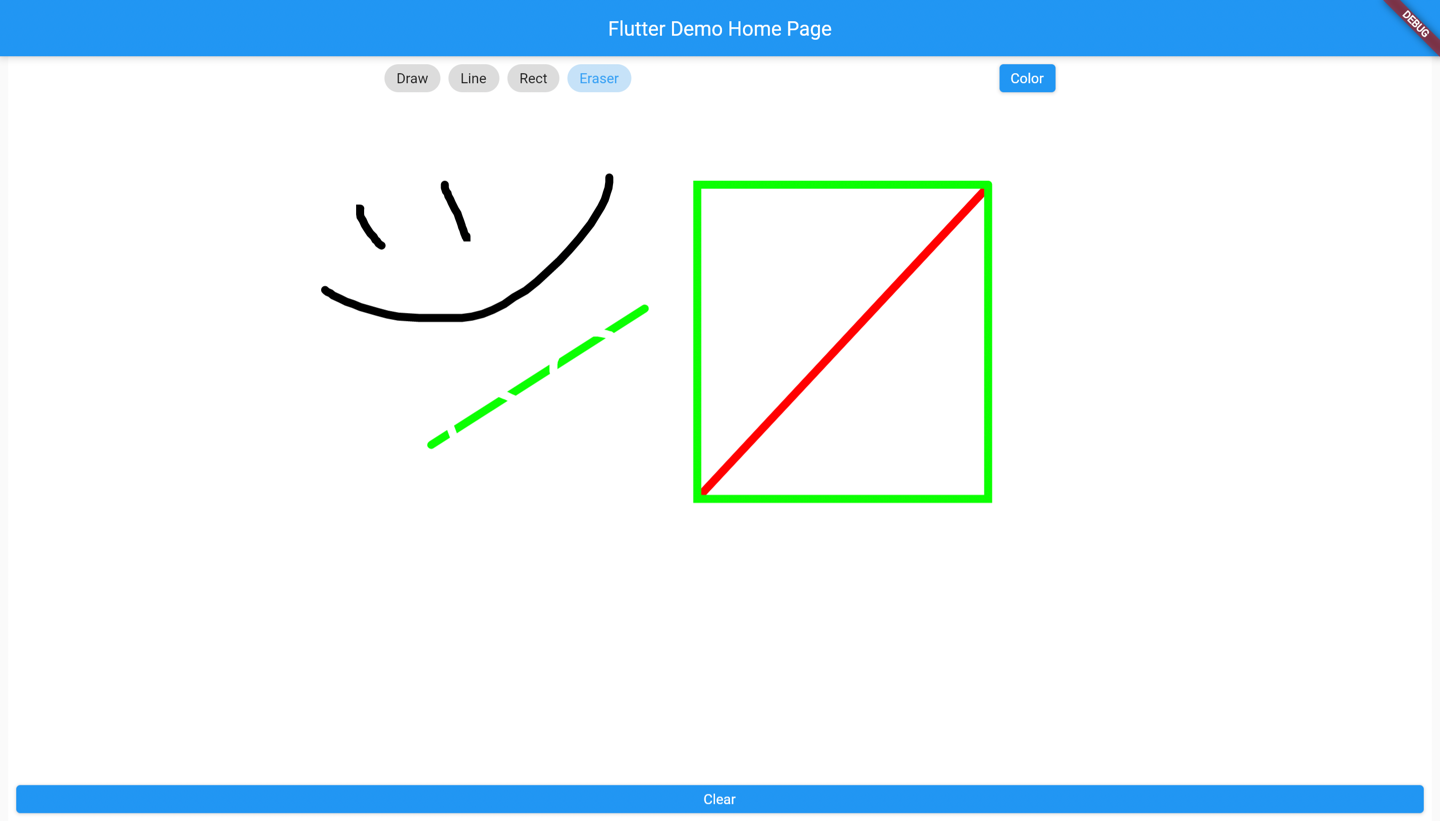
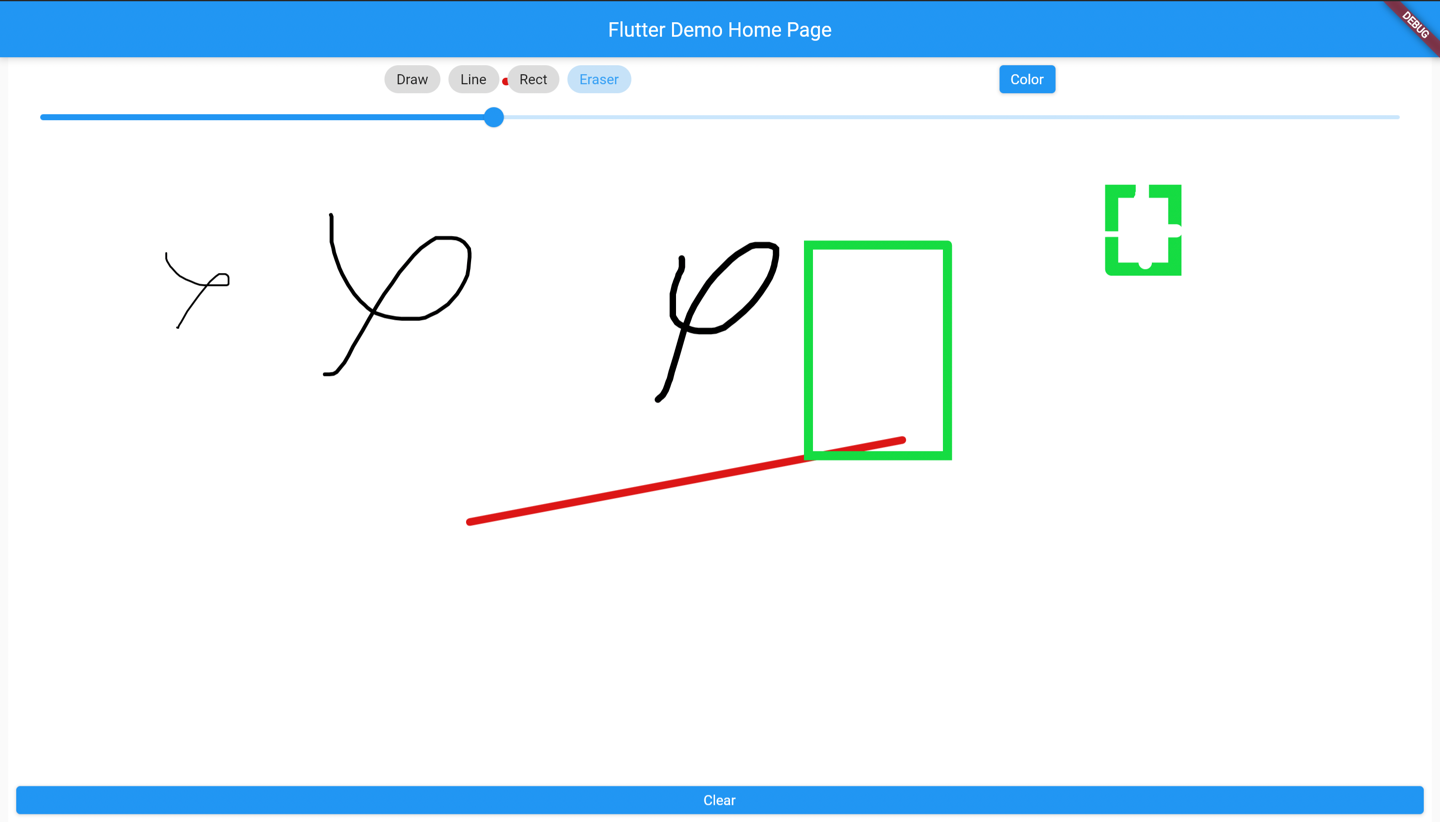
stroke width + readme

diff --git a/lib/HomePage.dart b/lib/HomePage.dart
@@ -32,7 +32,7 @@ class _MyHomePageState extends State<MyHomePage> {
 
   double opacity = 1.0;
   StrokeCap strokeType = StrokeCap.round;
-  double strokeWidth = 8.0;
+  double strokeWidth = 1.0;
 
   void changeColor(Color color) => setState(() => currentColor = color);
 
@@ -165,13 +165,15 @@ class _MyHomePageState extends State<MyHomePage> {
               Column(
                 mainAxisAlignment: MainAxisAlignment.spaceBetween,
                 children: [
-                  Row(
-                    mainAxisAlignment: MainAxisAlignment.spaceEvenly,
+                  Column(
                     children: [
-                      Wrap(
-                        children: List<Widget>.generate(
-                            4,
-                            (index) => ChoiceChip(
+                      Row(
+                        mainAxisAlignment: MainAxisAlignment.spaceEvenly,
+                        children: [
+                          Wrap(
+                            children: List<Widget>.generate(
+                                4,
+                                    (index) => ChoiceChip(
                                   label: Text(modes[index]),
                                   selected: selectedIndex == index,
                                   onSelected: (bool selected) {
@@ -194,39 +196,53 @@ class _MyHomePageState extends State<MyHomePage> {
                                     });
                                   },
                                 )),
-                        spacing: 8,
-                      ),
-                      ElevatedButton(
-                          onPressed: () {
-                            showDialog(
-                                context: context,
-                                builder: (BuildContext context) {
-                                  return AlertDialog(
-                                    titlePadding: const EdgeInsets.all(0.0),
-                                    contentPadding: const EdgeInsets.all(0.0),
-                                    content: SingleChildScrollView(
-                                      child: ColorPicker(
-                                        pickerColor: currentColor,
-                                        onColorChanged: changeColor,
-                                        colorPickerWidth: 300.0,
-                                        pickerAreaHeightPercent: 0.7,
-                                        enableAlpha: true,
-                                        displayThumbColor: true,
-                                        showLabel: true,
-                                        paletteType: PaletteType.hsv,
-                                        pickerAreaBorderRadius:
+                            spacing: 8,
+                          ),
+                          ElevatedButton(
+                              onPressed: () {
+                                showDialog(
+                                    context: context,
+                                    builder: (BuildContext context) {
+                                      return AlertDialog(
+                                        titlePadding: const EdgeInsets.all(0.0),
+                                        contentPadding: const EdgeInsets.all(0.0),
+                                        content: SingleChildScrollView(
+                                          child: ColorPicker(
+                                            pickerColor: currentColor,
+                                            onColorChanged: changeColor,
+                                            colorPickerWidth: 300.0,
+                                            pickerAreaHeightPercent: 0.7,
+                                            enableAlpha: true,
+                                            displayThumbColor: true,
+                                            showLabel: true,
+                                            paletteType: PaletteType.hsv,
+                                            pickerAreaBorderRadius:
                                             const BorderRadius.only(
-                                          topLeft: const Radius.circular(2.0),
-                                          topRight: const Radius.circular(2.0),
+                                              topLeft: const Radius.circular(2.0),
+                                              topRight: const Radius.circular(2.0),
+                                            ),
+                                          ),
                                         ),
-                                      ),
-                                    ),
-                                  );
-                                });
-                          },
-                          child: Text("Color")),
+                                      );
+                                    });
+                              },
+                              child: Text("Color")),
+                        ],
+                      ),
+                      Slider(
+                        value: strokeWidth,
+                        min: 1,
+                        max: 15,
+                        label: strokeWidth.round().toString(),
+                        onChanged: (value) {
+                          setState(() {
+                            strokeWidth = value;
+                          });
+                        },
+                      )
                     ],
                   ),
+
                   SizedBox(
                     width: double.infinity,
                     child: ElevatedButton(

diff --git a/README.md b/README.md
@@ -2,7 +2,20 @@
 
 Flutter drawing app for applying to JB internship.
 
-Tested on Android, iOS emulators and in browser.
+Tested on Android, iOS emulators and in browser (in addition to the main task).
+
+-----------------------
+## Features
+
+- Draw with finger
+- Draw lines
+- Draw rectangles
+- Erase drawings
+- Choose color
+- Clear canvas
+- Select stroke width
+
+----------
 
 ## Screenshots
 
